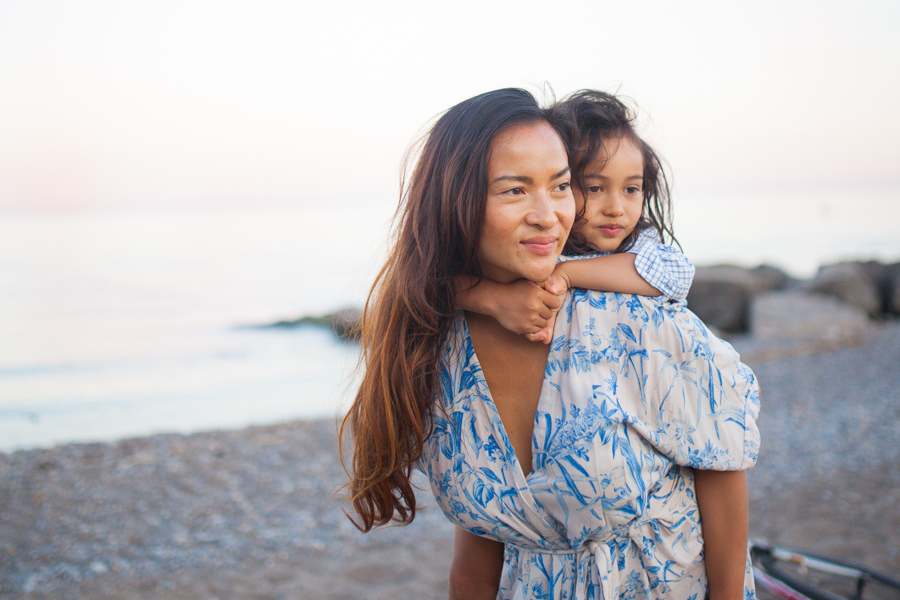
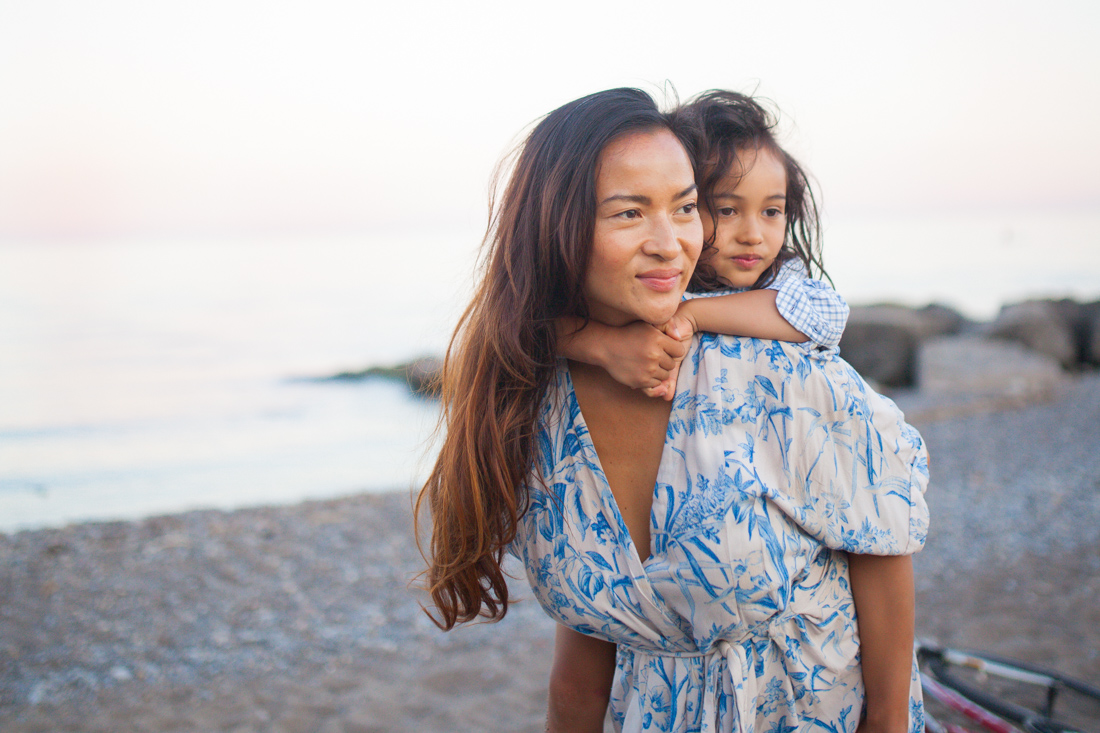
Added Laura and Beau photo to home page

Changed region(s): [[0.0, 0.12, 1.0, 1.0]]

diff --git a/index.html b/index.html
@@ -92,6 +92,9 @@
             <img src="img/misc/wendysheldon2.jpg"  />
          </div>
          <div class="carousel-cell gallery-cell responsive">
+            <img src="img/misc/featured6.jpg"  />
+         </div>
+         <div class="carousel-cell gallery-cell responsive">
             <img class="carousel-cell" src="img/misc/khaingcraig.jpg" />
          </div>
          <div class="carousel-cell gallery-cell responsive">
